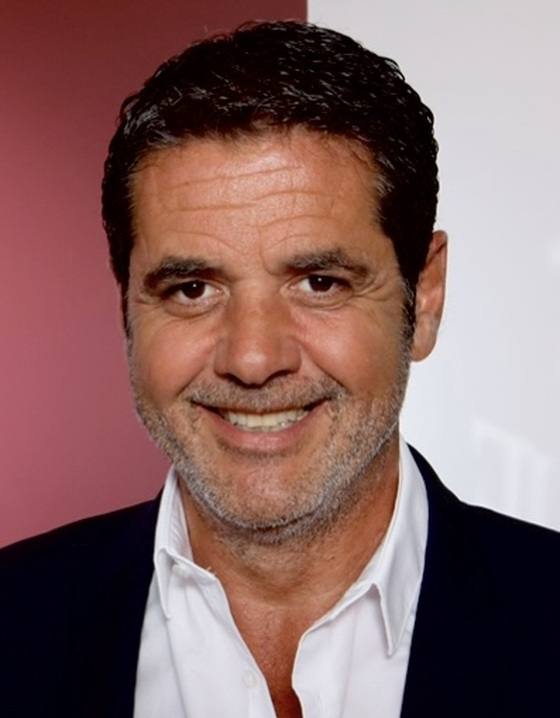
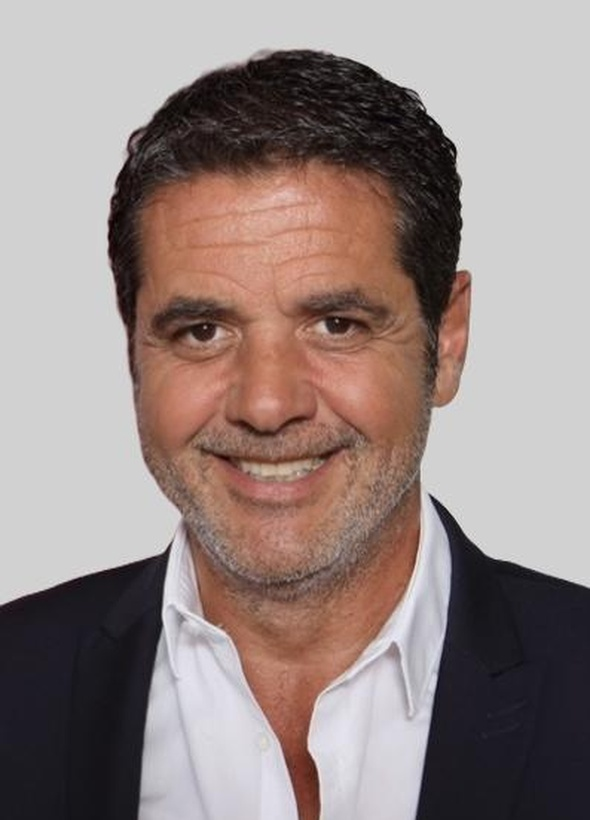
Mise à jour Version 1.0 Premium

diff --git a/app/page.tsx b/app/page.tsx
@@ -2,36 +2,11 @@ const photo = (query: string, w = 1400, h = 900) =>
   `https://source.unsplash.com/${w}x${h}/?${encodeURIComponent(query)}`;
 
 const projects = [
-  {
-    img: photo('satellite dish antenna'),
-    title: 'ANCHOR',
-    text: 'Transformer des innovations en réussite industrielle.',
-    tags: 'Innovation industrielle · Spatial · Défense · Composites',
-  },
-  {
-    img: photo('ship propeller dry dock'),
-    title: 'ADOUR',
-    text: 'Structurer une acquisition créatrice de valeur.',
-    tags: 'Industrie navale · Croissance externe',
-  },
-  {
-    img: photo('investment meeting boardroom'),
-    title: 'CAP200',
-    text: "Construire une plateforme d'investissement régional.",
-    tags: 'Investisseurs · PME · Territoires',
-  },
-  {
-    img: photo('luxury fashion runway'),
-    title: 'GIDDY UP FASHION NIGHT',
-    text: "Créer une marque internationale d'événementiel et de média.",
-    tags: 'Mode · Luxe · Média · Événementiel',
-  },
-  {
-    img: photo('industrial workshop robotics'),
-    title: 'NEOPOLIA',
-    text: "Développer un écosystème industriel créateur d'opportunités.",
-    tags: 'Industrie · Innovation · Réseau',
-  },
+  { img: photo('satellite dish antenna space industry'), title: 'ANCHOR', text: 'Transformer des innovations en réussite industrielle.', tags: 'Innovation industrielle · Spatial · Défense · Composites' },
+  { img: photo('ship propeller dry dock marine industry'), title: 'ADOUR', text: 'Structurer une acquisition créatrice de valeur.', tags: 'Industrie navale · Croissance externe' },
+  { img: photo('investment committee boardroom business'), title: 'CAP200', text: "Construire une plateforme d'investissement régional.", tags: 'Investisseurs · PME · Territoires' },
+  { img: photo('luxury fashion runway show'), title: 'GIDDY UP FASHION NIGHT', text: "Créer une marque internationale d'événementiel et de média.", tags: 'Mode · Luxe · Média · Événementiel' },
+  { img: photo('modern industrial workshop robotics'), title: 'NEOPOLIA', text: "Développer un écosystème industriel créateur d'opportunités.", tags: 'Industrie · Innovation · Réseau' },
 ];
 
 const timeline = [
@@ -49,139 +24,36 @@ export default function Home() {
     <>
       <header className="site-header">
         <div className="container nav">
-          <a className="brand" href="#top">
-            <img src="/logo-aplc-chrome.png" alt="APLC" />
-            <span>Accélérer pour la Croissance</span>
-          </a>
-          <nav className="desktop-nav">
-            <a href="#approche">Notre approche</a>
-            <a href="#projets">Vos projets</a>
-            <a href="#realisations">Nos réalisations</a>
-            <a href="#parcours">Qui sommes-nous ?</a>
-            <a href="#contact" className="nav-cta">Nous contacter</a>
-          </nav>
+          <a className="brand" href="#top"><img src="/logo-aplc-chrome.png" alt="APLC" /><span>Accélérer pour la Croissance</span></a>
+          <nav className="desktop-nav"><a href="#approche">Notre approche</a><a href="#projets">Vos projets</a><a href="#realisations">Nos réalisations</a><a href="#parcours">Qui sommes-nous ?</a><a href="#contact" className="nav-cta">Nous contacter</a></nav>
         </div>
       </header>
-
       <main id="top">
         <section className="hero">
           <div className="hero-photo" />
           <div className="hero-portrait"><img src="/laurent-gobinet-portrait.jpg" alt="Laurent Gobinet" /></div>
-          <div className="container hero-grid">
-            <div className="hero-copy">
-              <h1>Anticiper aujourd'hui,<br />créer de la valeur demain.</h1>
-              <div className="accent" />
-              <p>Nous accompagnons les dirigeants de PME et d'ETI dans leurs décisions stratégiques, de la préparation jusqu'au déploiement opérationnel de leurs projets.</p>
-              <div className="hero-buttons">
-                <a className="btn primary" href="#approche">Découvrir notre approche <span>→</span></a>
-                <a className="btn secondary" href="#contact">Échanger avec nous <span>→</span></a>
-              </div>
-            </div>
-          </div>
-        </section>
-
-        <section id="approche" className="approach section-dark">
-          <div className="container">
-            <p className="section-kicker">Notre approche</p>
-            <h2>Anticiper. Structurer. Décider. Déployer.</h2>
-            <div className="approach-grid">
-              <article><h3>Anticiper</h3><p>Préparer les décisions qui engagent l'avenir.</p></article>
-              <article><h3>Structurer</h3><p>Construire une stratégie, un financement ou une opération créatrice de valeur.</p></article>
-              <article><h3>Décider</h3><p>Sécuriser chaque étape grâce à une vision indépendante et expérimentée.</p></article>
-              <article><h3>Déployer</h3><p>Transformer les décisions en résultats concrets et durables.</p></article>
-            </div>
-          </div>
-        </section>
-
-        <section id="projets" className="why">
-          <div className="container why-grid">
-            <div className="why-copy">
-              <h2>Pourquoi APLC ?</h2>
-              <div className="accent" />
-              <div className="why-items">
-                <article><h3>Plus de 30 ans d'expérience industrielle</h3><p>La connaissance du terrain et des enjeux réels.</p></article>
-                <article><h3>Une vision de dirigeant</h3><p>Nous avons occupé votre place. Nous comprenons vos enjeux et vos responsabilités.</p></article>
-                <article><h3>Une approche sur mesure</h3><p>Chaque entreprise est différente. Chaque projet mérite une réponse adaptée.</p></article>
-                <article><h3>De la stratégie au déploiement</h3><p>Nous restons à vos côtés jusqu'à la mise en œuvre et la création de valeur.</p></article>
-                <article><h3>Un engagement total</h3><p>Confidentialité, loyauté et implication dans la réussite de vos projets.</p></article>
-              </div>
-            </div>
-            <div className="why-photo"><img src={photo('executive meeting office')} alt="Réunion de travail stratégique" /></div>
-          </div>
-        </section>
-
-        <section className="quote-band">
-          <div className="container">
-            <p>Créer de la valeur est une ambition.<br />La concrétiser est une méthode.</p>
-          </div>
-        </section>
-
-        <section id="realisations" className="projects">
-          <div className="container">
-            <div className="section-title-row">
-              <h2>Nos réalisations</h2>
-              <a href="#contact">Voir toutes les réalisations →</a>
-            </div>
-            <div className="project-grid">
-              {projects.map((p) => (
-                <article className="project-card" key={p.title}>
-                  <img src={p.img} alt={p.title} />
-                  <div>
-                    <h3>{p.title}</h3>
-                    <p>{p.text}</p>
-                    <span>{p.tags}</span>
-                  </div>
-                </article>
-              ))}
-            </div>
-          </div>
-        </section>
-
-        <section id="parcours" className="career">
-          <div className="container">
-            <h2>Mon parcours de dirigeant</h2>
+          <div className="container hero-grid"><div className="hero-copy">
+            <p className="eyebrow">APLC Solutions</p>
+            <h1>Anticiper aujourd'hui,<br />créer de la valeur demain.</h1>
             <div className="accent" />
-            <div className="timeline">
-              {timeline.map(([company, role]) => (
-                <div key={company}>
-                  <strong>{company}</strong>
-                  <span>{role}</span>
-                </div>
-              ))}
-            </div>
-            <p className="career-quote">Parce que les meilleures décisions sont prises par ceux qui ont déjà vécu les enjeux de l'entreprise.</p>
-          </div>
+            <p>Nous accompagnons les dirigeants de PME et d'ETI dans leurs décisions stratégiques, de la préparation jusqu'au déploiement opérationnel de leurs projets.</p>
+            <div className="hero-buttons"><a className="btn primary" href="#approche">Découvrir notre approche <span>→</span></a><a className="btn secondary" href="#contact">Échanger avec nous <span>→</span></a></div>
+          </div></div>
         </section>
-
-        <section id="contact" className="contact-section">
-          <div className="contact-photo"><img src={photo('outdoor business meeting landscape')} alt="Rencontre professionnelle en extérieur" /></div>
-          <div className="container contact-grid">
-            <div className="contact-card">
-              <h2>Échangeons.</h2>
-              <div className="accent" />
-              <p>Les décisions stratégiques commencent toujours par une rencontre.</p>
-            </div>
-            <div className="contact-details">
-              <p>☎ <a href="tel:+33630255807">06 30 25 58 07</a></p>
-              <p>✉ <a href="mailto:[email redacted]">[email redacted]</a></p>
-              <p>⌖ Basé à Nantes<br />Interventions en France et à l'international</p>
-              <p>in <a href="https://www.linkedin.com/in/laurent-gobinet-21663930" target="_blank" rel="noopener">linkedin.com/in/laurent-gobinet</a></p>
-            </div>
-            <div className="qr">
-              <img src="/qr-contact-laurent-gobinet.png" alt="QR code contact Laurent Gobinet" />
-              <span>Ajouter à vos contacts</span>
-            </div>
-          </div>
-        </section>
+        <section id="approche" className="approach section-dark"><div className="container">
+          <p className="section-kicker">Notre approche</p><h2>Anticiper. Structurer. Décider. Déployer.</h2>
+          <div className="approach-grid"><article><span className="num">01</span><h3>Anticiper</h3><p>Préparer les décisions qui engagent l'avenir.</p></article><article><span className="num">02</span><h3>Structurer</h3><p>Construire une stratégie, un financement ou une opération créatrice de valeur.</p></article><article><span className="num">03</span><h3>Décider</h3><p>Sécuriser chaque étape grâce à une vision indépendante et expérimentée.</p></article><article><span className="num">04</span><h3>Déployer</h3><p>Transformer les décisions en résultats concrets et durables.</p></article></div>
+        </div></section>
+        <section id="projets" className="why"><div className="container why-grid">
+          <div className="why-copy"><h2>Pourquoi APLC ?</h2><div className="accent" /><div className="why-items"><article><h3>Plus de 30 ans d'expérience industrielle</h3><p>La connaissance du terrain et des enjeux réels.</p></article><article><h3>Une vision de dirigeant</h3><p>Nous avons occupé votre place. Nous comprenons vos enjeux et vos responsabilités.</p></article><article><h3>Une approche sur mesure</h3><p>Chaque entreprise est différente. Chaque projet mérite une réponse adaptée.</p></article><article><h3>De la stratégie au déploiement</h3><p>Nous restons à vos côtés jusqu'à la mise en œuvre et la création de valeur.</p></article><article><h3>Un engagement total</h3><p>Confidentialité, loyauté et implication dans la réussite de vos projets.</p></article></div></div>
+          <div className="why-photo"><img src={photo('executive meeting industrial office')} alt="Réunion de travail stratégique" /></div>
+        </div></section>
+        <section className="quote-band"><div className="container"><p>Créer de la valeur est une ambition.<br />La concrétiser est une méthode.</p></div></section>
+        <section id="realisations" className="projects"><div className="container"><div className="section-title-row"><h2>Nos réalisations</h2><a href="#contact">Voir toutes les réalisations →</a></div><div className="project-grid">{projects.map((p) => <article className="project-card" key={p.title}><img src={p.img} alt={p.title} /><div><h3>{p.title}</h3><p>{p.text}</p><span>{p.tags}</span></div></article>)}</div></div></section>
+        <section id="parcours" className="career"><div className="container"><h2>Mon parcours de dirigeant</h2><div className="accent" /><div className="timeline">{timeline.map(([company, role]) => <div key={company}><strong>{company}</strong><span>{role}</span></div>)}</div><p className="career-quote">Parce que les meilleures décisions sont prises par ceux qui ont déjà vécu les enjeux de l'entreprise.</p></div></section>
+        <section id="contact" className="contact-section"><div className="contact-photo"><img src={photo('outdoor business meeting landscape')} alt="Rencontre professionnelle en extérieur" /></div><div className="container contact-grid"><div className="contact-card"><h2>Échangeons.</h2><div className="accent" /><p>Les décisions stratégiques commencent toujours par une rencontre.</p></div><div className="contact-details"><p>☎ <a href="tel:+33630255807">06 30 25 58 07</a></p><p>✉ <a href="mailto:[email redacted]">[email redacted]</a></p><p>⌖ Basé à Nantes<br />Interventions en France et à l'international</p><p>in <a href="https://www.linkedin.com/in/laurent-gobinet-21663930" target="_blank" rel="noopener">linkedin.com/in/laurent-gobinet</a></p></div><div className="qr"><img src="/qr-contact-laurent-gobinet.png" alt="QR code contact Laurent Gobinet" /><span>Ajouter à vos contacts</span></div></div></section>
       </main>
-
-      <footer>
-        <div className="container footer-grid">
-          <img src="/logo-aplc-chrome-small.png" alt="APLC" />
-          <p>Anticiper aujourd'hui,<br />créer de la valeur demain.</p>
-          <p>© APLC Solutions – Tous droits réservés</p>
-        </div>
-      </footer>
+      <footer><div className="container footer-grid"><img src="/logo-aplc-chrome-small.png" alt="APLC" /><p>Anticiper aujourd'hui,<br />créer de la valeur demain.</p><p>© APLC Solutions – Tous droits réservés</p></div></footer>
     </>
   );
 }

diff --git a/app/globals.css b/app/globals.css
@@ -1,28 +1,2 @@
 @import url('https://fonts.googleapis.com/css2?family=Inter:wght@400;500;700;800&display=swap');
-
-:root{--ink:#020914;--night:#031226;--blue:#0b58b4;--blue2:#1478e8;--white:#f7fbff;--muted:#c6d6e9;--line:rgba(255,255,255,.18)}
-*{box-sizing:border-box}
-html{scroll-behavior:smooth}
-body{margin:0;font-family:Inter,Segoe UI,Arial,sans-serif;color:var(--white);background:#031226}
-a{color:inherit}.container{max-width:1220px;margin:auto;padding:0 30px}
-.site-header{position:sticky;top:0;z-index:50;background:rgba(2,9,20,.82);backdrop-filter:blur(18px);border-bottom:1px solid var(--line)}
-.nav{height:84px;display:flex;align-items:center;justify-content:space-between}
-.brand{text-decoration:none;display:flex;flex-direction:column;gap:3px}.brand img{width:150px}.brand span{text-transform:uppercase;font-size:11px;letter-spacing:.08em;color:#e5edf7}
-.desktop-nav{display:flex;gap:28px;text-transform:uppercase;font-size:13px;font-weight:700}.desktop-nav a{text-decoration:none}.nav-cta{border:1px solid rgba(255,255,255,.55);padding:15px 20px}
-.hero{position:relative;min-height:650px;border-bottom:1px solid var(--line);overflow:hidden;background:#020914}
-.hero-photo{position:absolute;inset:0;background:url('https://source.unsplash.com/1920x1000/?executive-office,industrial') center/cover no-repeat;opacity:.34;filter:saturate(.8) contrast(1.05)}
-.hero:after{content:"";position:absolute;inset:0;background:linear-gradient(90deg,rgba(1,7,15,.96) 0%,rgba(2,12,27,.76) 43%,rgba(2,12,27,.18) 100%)}
-.hero-portrait{position:absolute;z-index:1;right:8%;bottom:0;width:min(470px,38vw);filter:drop-shadow(0 28px 50px rgba(0,0,0,.55))}
-.hero-portrait img{display:block;width:100%;border-radius:10px 10px 0 0;mask-image:linear-gradient(to bottom,#000 78%,transparent 100%)}
-.hero-grid{position:relative;z-index:2;min-height:650px;display:grid;align-items:center}.hero-copy{max-width:650px;padding-top:60px}
-h1,h2{font-family:Georgia,Times New Roman,serif;font-weight:400}
-h1{text-transform:uppercase;font-size:54px;line-height:1.1;margin:0 0 20px}.accent{width:50px;height:3px;background:var(--blue2);margin:18px 0 24px}.hero-copy p{font-size:20px;line-height:1.55;max-width:560px}
-.hero-buttons{display:flex;gap:18px;margin-top:32px;flex-wrap:wrap}.btn{text-decoration:none;text-transform:uppercase;font-weight:800;font-size:13px;padding:18px 24px;border:1px solid rgba(255,255,255,.5);display:inline-flex;gap:20px;transition:.25s}.btn.primary{background:linear-gradient(180deg,#0e65d0,#063f8f);border-color:#0e65d0}.btn:hover{transform:translateY(-2px)}
-.section-dark{background:#031226;border-bottom:1px solid var(--line)}.approach{padding:44px 0 58px}.section-kicker{text-align:center;text-transform:uppercase;letter-spacing:.2em;color:#d9e8fb}.approach h2{text-align:center;font-size:36px}.approach-grid{display:grid;grid-template-columns:repeat(4,1fr)}.approach-grid article{padding:0 32px;border-right:1px solid var(--line)}.approach-grid article:last-child{border-right:0}.approach-grid h3{text-transform:uppercase}.approach-grid p{color:#d5e5f6;line-height:1.55}
-.why{background:#04162f;border-bottom:1px solid var(--line)}.why-grid{display:grid;grid-template-columns:1.35fr .9fr}.why-copy{padding:52px 35px 48px 0}.why h2{font-size:31px}.why-items{display:grid;grid-template-columns:repeat(5,1fr);gap:0}.why-items article{padding:0 20px;border-right:1px solid var(--line)}.why-items article:first-child{padding-left:0}.why-items h3{text-transform:uppercase;font-size:14px}.why-items p{color:#d3e2f4;font-size:14px;line-height:1.55}.why-photo{min-height:330px;overflow:hidden}.why-photo img{width:100%;height:100%;object-fit:cover;display:block}
-.quote-band{background:linear-gradient(135deg,#04142c,#082b59);padding:58px 0;text-align:center}.quote-band p{font-family:Georgia,serif;font-size:34px;line-height:1.22;margin:0}
-.projects{background:#f6f8fb;color:#061326;padding:46px 0 60px}.section-title-row{display:flex;justify-content:space-between;align-items:center}.project-grid{display:grid;grid-template-columns:repeat(5,1fr);gap:18px;margin-top:26px}.project-card{background:#071a36;color:white;overflow:hidden;box-shadow:0 18px 38px rgba(0,0,0,.12)}.project-card img{width:100%;height:150px;object-fit:cover;display:block}.project-card div{padding:18px}.project-card h3{font-family:Georgia,serif;font-size:24px;margin:0 0 10px}.project-card p{font-size:15px}.project-card span{text-transform:uppercase;color:#b7cbe4;font-size:11px}
-.career{background:#031226;padding:46px 0 42px}.career h2{font-size:31px}.timeline{position:relative;display:grid;grid-template-columns:repeat(7,1fr);gap:18px;text-align:center;margin-top:28px}.timeline:before{content:"";position:absolute;top:10px;left:4%;right:4%;height:1px;background:rgba(180,210,245,.55)}.timeline div{position:relative;padding-top:28px}.timeline div:before{content:"";position:absolute;top:2px;left:50%;transform:translateX(-50%);width:16px;height:16px;border-radius:50%;background:#54a4ff;border:2px solid #b9d6ff}.timeline strong{display:block;font-size:18px}.timeline span{display:block;color:#d4e4f7;font-size:13px}.career-quote{text-align:center;font-family:Georgia,serif;font-style:italic;font-size:20px}
-.contact-section{position:relative;background:#071a36}.contact-photo{position:absolute;left:0;top:0;bottom:0;width:34%;overflow:hidden}.contact-photo img{width:100%;height:100%;object-fit:cover}.contact-grid{position:relative;display:grid;grid-template-columns:1fr 1.1fr 180px;gap:36px;align-items:center;min-height:270px;padding-left:38%}.contact-card h2{font-size:34px}.contact-details{border-left:1px solid var(--line);padding-left:28px}.contact-details a{text-decoration:none}.qr{text-align:center}.qr img{width:128px;background:white;padding:6px}.qr span{text-transform:uppercase;font-size:11px;display:block;margin-top:8px}
-footer{background:#020914;padding:18px 0;color:#c5d3e2}.footer-grid{display:grid;grid-template-columns:190px 1fr 1fr;gap:28px;align-items:center}footer img{width:150px}
-@media(max-width:980px){.desktop-nav{display:none}.hero-portrait{opacity:.22;right:-5%;width:70vw}h1{font-size:38px}.approach-grid,.project-grid,.why-items,.timeline{grid-template-columns:1fr}.why-grid{grid-template-columns:1fr}.contact-photo{position:relative;width:100%;height:220px}.contact-grid{grid-template-columns:1fr;padding-left:30px;padding-top:28px;padding-bottom:28px}.footer-grid{grid-template-columns:1fr}}
+:root{--ink:#020914;--night:#031226;--blue:#0b58b4;--blue2:#1478e8;--white:#f7fbff;--muted:#c6d6e9;--line:rgba(255,255,255,.18)}*{box-sizing:border-box}html{scroll-behavior:smooth}body{margin:0;font-family:Inter,Segoe UI,Arial,sans-serif;color:var(--white);background:#031226}a{color:inherit}.container{max-width:1220px;margin:auto;padding:0 30px}.site-header{position:sticky;top:0;z-index:50;background:rgba(2,9,20,.82);backdrop-filter:blur(18px);border-bottom:1px solid var(--line)}.nav{height:84px;display:flex;align-items:center;justify-content:space-between}.brand{text-decoration:none;display:flex;flex-direction:column;gap:3px}.brand img{width:150px}.brand span{text-transform:uppercase;font-size:11px;letter-spacing:.08em;color:#e5edf7}.desktop-nav{display:flex;gap:28px;text-transform:uppercase;font-size:13px;font-weight:700}.desktop-nav a{text-decoration:none}.nav-cta{border:1px solid rgba(255,255,255,.55);padding:15px 20px}.hero{position:relative;min-height:670px;border-bottom:1px solid var(--line);overflow:hidden;background:#020914}.hero-photo{position:absolute;inset:0;background:url('https://source.unsplash.com/1920x1000/?industrial-office,executive,evening') center/cover no-repeat;opacity:.34;filter:saturate(.85) contrast(1.08)}.hero:after{content:"";position:absolute;inset:0;background:radial-gradient(circle at 75% 30%, rgba(20,120,232,.26), transparent 34%),linear-gradient(90deg,rgba(1,7,15,.96) 0%,rgba(2,12,27,.78) 43%,rgba(2,12,27,.22) 100%)}.hero-portrait{position:absolute;z-index:1;right:7%;bottom:0;width:min(500px,39vw);filter:drop-shadow(0 30px 55px rgba(0,0,0,.58))}.hero-portrait img{display:block;width:100%;border-radius:12px 12px 0 0;mask-image:linear-gradient(to bottom,#000 78%,transparent 100%)}.hero-grid{position:relative;z-index:2;min-height:670px;display:grid;align-items:center}.hero-copy{max-width:660px;padding-top:55px;animation:reveal .75s ease both}.eyebrow{text-transform:uppercase;letter-spacing:.22em;color:#b9d7ff;font-size:12px;font-weight:800;margin:0 0 20px}h1,h2{font-family:Georgia,Times New Roman,serif;font-weight:400}h1{text-transform:uppercase;font-size:56px;line-height:1.08;margin:0 0 20px}.accent{width:50px;height:3px;background:var(--blue2);margin:18px 0 24px}.hero-copy p{font-size:20px;line-height:1.55;max-width:570px}.hero-buttons{display:flex;gap:18px;margin-top:32px;flex-wrap:wrap}.btn{text-decoration:none;text-transform:uppercase;font-weight:800;font-size:13px;padding:18px 24px;border:1px solid rgba(255,255,255,.5);display:inline-flex;gap:20px;transition:.25s}.btn.primary{background:linear-gradient(180deg,#0e65d0,#063f8f);border-color:#0e65d0}.btn:hover{transform:translateY(-2px);background:rgba(255,255,255,.08)}.section-dark{background:#031226;border-bottom:1px solid var(--line)}.approach{padding:54px 0 68px}.section-kicker{text-align:center;text-transform:uppercase;letter-spacing:.2em;color:#d9e8fb}.approach h2{text-align:center;font-size:38px;margin-bottom:42px}.approach-grid{display:grid;grid-template-columns:repeat(4,1fr)}.approach-grid article{padding:0 32px;border-right:1px solid var(--line)}.approach-grid article:last-child{border-right:0}.num{font-family:Georgia,serif;color:#5fa8ff;font-size:28px}.approach-grid h3{text-transform:uppercase}.approach-grid p{color:#d5e5f6;line-height:1.55}.why{background:#04162f;border-bottom:1px solid var(--line)}.why-grid{display:grid;grid-template-columns:1.35fr .9fr}.why-copy{padding:58px 35px 54px 0}.why h2{font-size:33px}.why-items{display:grid;grid-template-columns:repeat(5,1fr);gap:0}.why-items article{padding:0 20px;border-right:1px solid var(--line)}.why-items article:first-child{padding-left:0}.why-items h3{text-transform:uppercase;font-size:14px}.why-items p{color:#d3e2f4;font-size:14px;line-height:1.55}.why-photo{min-height:360px;overflow:hidden}.why-photo img{width:100%;height:100%;object-fit:cover;display:block;filter:saturate(.82) contrast(1.06)}.quote-band{background:linear-gradient(135deg,#04142c,#082b59);padding:64px 0;text-align:center}.quote-band p{font-family:Georgia,serif;font-size:36px;line-height:1.22;margin:0}.projects{background:#f6f8fb;color:#061326;padding:54px 0 68px}.section-title-row{display:flex;justify-content:space-between;align-items:center}.project-grid{display:grid;grid-template-columns:repeat(5,1fr);gap:18px;margin-top:28px}.project-card{background:#071a36;color:white;overflow:hidden;box-shadow:0 18px 38px rgba(0,0,0,.12);transition:.25s}.project-card:hover{transform:translateY(-5px)}.project-card img{width:100%;height:158px;object-fit:cover;display:block;filter:saturate(.82) contrast(1.05)}.project-card div{padding:18px}.project-card h3{font-family:Georgia,serif;font-size:24px;margin:0 0 10px}.project-card p{font-size:15px}.project-card span{text-transform:uppercase;color:#b7cbe4;font-size:11px}.career{background:#031226;padding:52px 0 48px}.career h2{font-size:32px}.timeline{position:relative;display:grid;grid-template-columns:repeat(7,1fr);gap:18px;text-align:center;margin-top:28px}.timeline:before{content:"";position:absolute;top:10px;left:4%;right:4%;height:1px;background:rgba(180,210,245,.55)}.timeline div{position:relative;padding-top:28px}.timeline div:before{content:"";position:absolute;top:2px;left:50%;transform:translateX(-50%);width:16px;height:16px;border-radius:50%;background:#54a4ff;border:2px solid #b9d6ff}.timeline strong{display:block;font-size:18px}.timeline span{display:block;color:#d4e4f7;font-size:13px}.career-quote{text-align:center;font-family:Georgia,serif;font-style:italic;font-size:20px}.contact-section{position:relative;background:#071a36}.contact-photo{position:absolute;left:0;top:0;bottom:0;width:34%;overflow:hidden}.contact-photo img{width:100%;height:100%;object-fit:cover}.contact-grid{position:relative;display:grid;grid-template-columns:1fr 1.1fr 180px;gap:36px;align-items:center;min-height:290px;padding-left:38%}.contact-card h2{font-size:34px}.contact-details{border-left:1px solid var(--line);padding-left:28px}.contact-details a{text-decoration:none}.qr{text-align:center}.qr img{width:128px;background:white;padding:6px}.qr span{text-transform:uppercase;font-size:11px;display:block;margin-top:8px}footer{background:#020914;padding:18px 0;color:#c5d3e2}.footer-grid{display:grid;grid-template-columns:190px 1fr 1fr;gap:28px;align-items:center}footer img{width:150px}@keyframes reveal{from{opacity:0;transform:translateY(18px)}to{opacity:1;transform:none}}@media(max-width:980px){.desktop-nav{display:none}.hero-portrait{opacity:.24;right:-8%;width:78vw}h1{font-size:38px}.approach-grid,.project-grid,.why-items,.timeline{grid-template-columns:1fr}.approach-grid article,.why-items article{border-right:0;border-bottom:1px solid var(--line);padding:20px 0}.why-grid{grid-template-columns:1fr}.contact-photo{position:relative;width:100%;height:220px}.contact-grid{grid-template-columns:1fr;padding-left:30px;padding-top:28px;padding-bottom:28px}.footer-grid{grid-template-columns:1fr}}

diff --git a/app/layout.tsx b/app/layout.tsx
@@ -8,9 +8,5 @@ export const metadata: Metadata = {
 };
 
 export default function RootLayout({ children }: { children: React.ReactNode }) {
-  return (
-    <html lang="fr">
-      <body>{children}</body>
-    </html>
-  );
+  return <html lang="fr"><body>{children}</body></html>;
 }

diff --git a/README.md b/README.md
@@ -1,22 +1,5 @@
-# APLC Solutions – Projet Next.js propre pour Vercel
+# APLC Solutions - Version 1.0 Premium
 
-## Structure attendue à la racine GitHub
+Projet Next.js prêt pour Vercel.
 
-- `app/`
-- `public/`
-- `package.json`
-- `next.config.mjs`
-- `tsconfig.json`
-
-Ne déposez pas les fichiers `layout.tsx`, `page.tsx` ou `globals.css` à la racine : ils doivent rester dans le dossier `app`.
-
-## Déploiement
-
-1. Supprimer/recréer le dépôt GitHub si besoin.
-2. Dézipper ce fichier.
-3. Ouvrir le dossier dézippé.
-4. Déposer dans GitHub le contenu visible : `app`, `public`, `package.json`, etc.
-5. Importer le dépôt dans Vercel.
-6. Déployer.
-
-Les photos de démonstration sont chargées par URL pour éviter les problèmes d'affichage local. Elles seront remplacées ensuite par les visuels définitifs sous licence.
+Conservez l'arborescence app/ et public/ lors de l'upload GitHub.